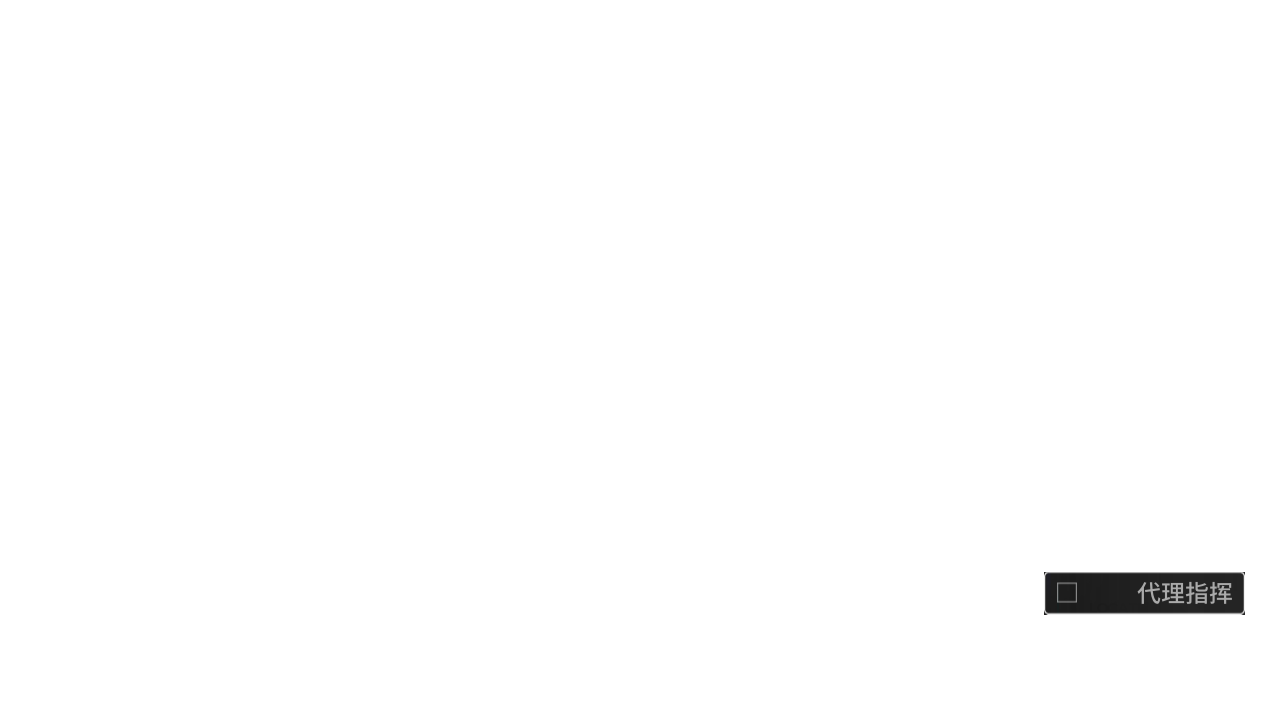
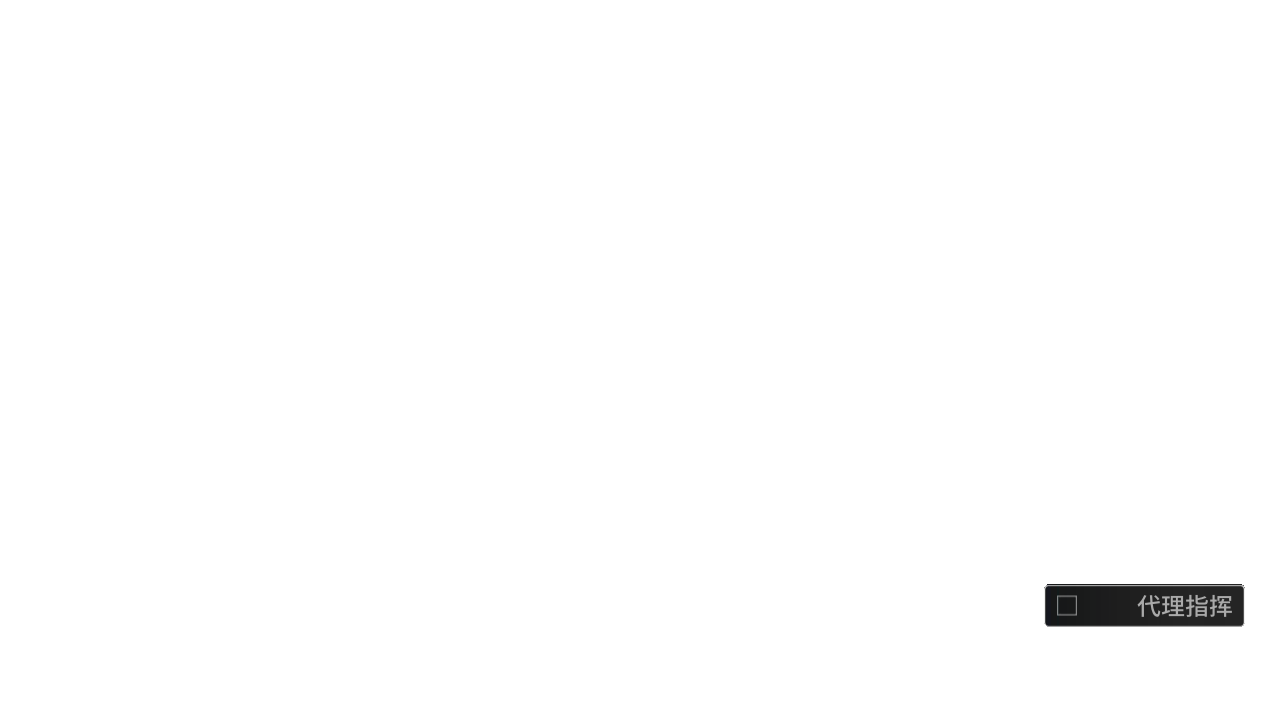
fix: UI 改变造成的影响

Changed region(s): [[0.8125, 0.7944, 0.9688, 0.8861]]

diff --git a/src/main/kotlin/top/anagke/auto_ark/operate/Consts.kt b/src/main/kotlin/top/anagke/auto_ark/operate/Consts.kt
@@ -20,9 +20,11 @@ object OperatePoses {
     internal val 终端_资源收集 = Pos(719, 670)
     internal val 终端_每周部署 = Pos(878, 670)
 
-    internal val PR_X_1 = Pos(403, 438)
-    internal val PR_X_2 = Pos(830, 258)
-    internal val XX_5 = Pos(945, 177)
+    internal val PR_X_1 = Pos(328, 443)
+    internal val PR_X_2 = Pos(783, 247)
+
+    // LS-5、CE-5、CA-5 等。
+    internal val XX_5 = Pos(918, 292)
 
     internal val 终端_活动 = Pos(1096, 143)
     internal val 终端_副活动 = Pos(1096, 243)
